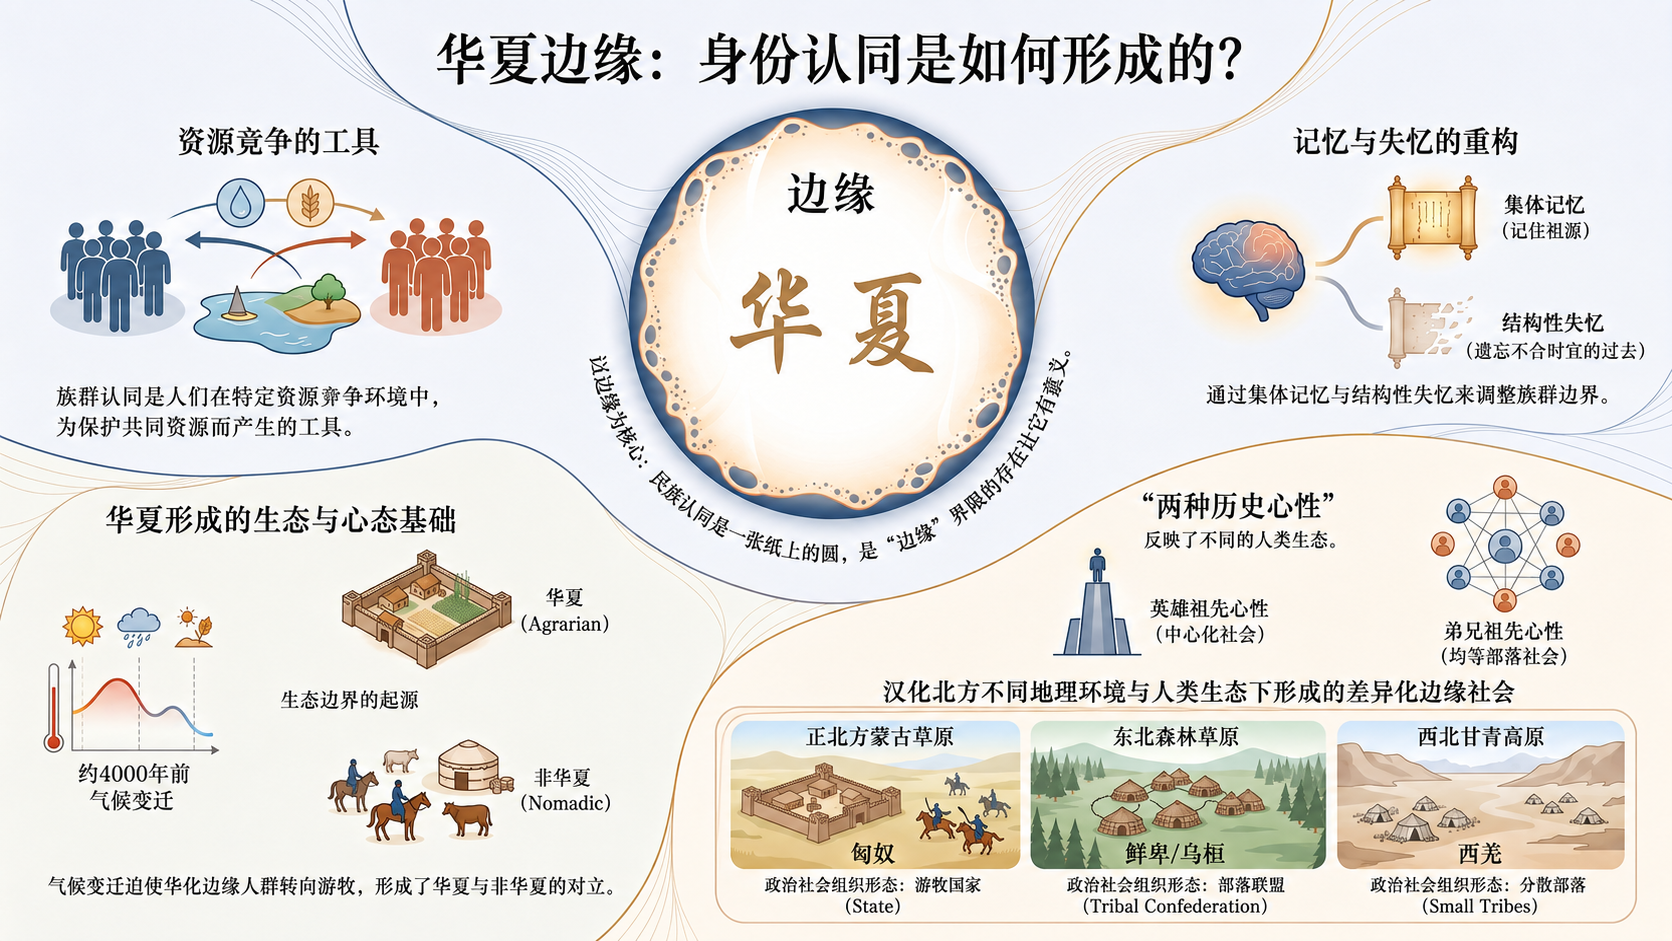
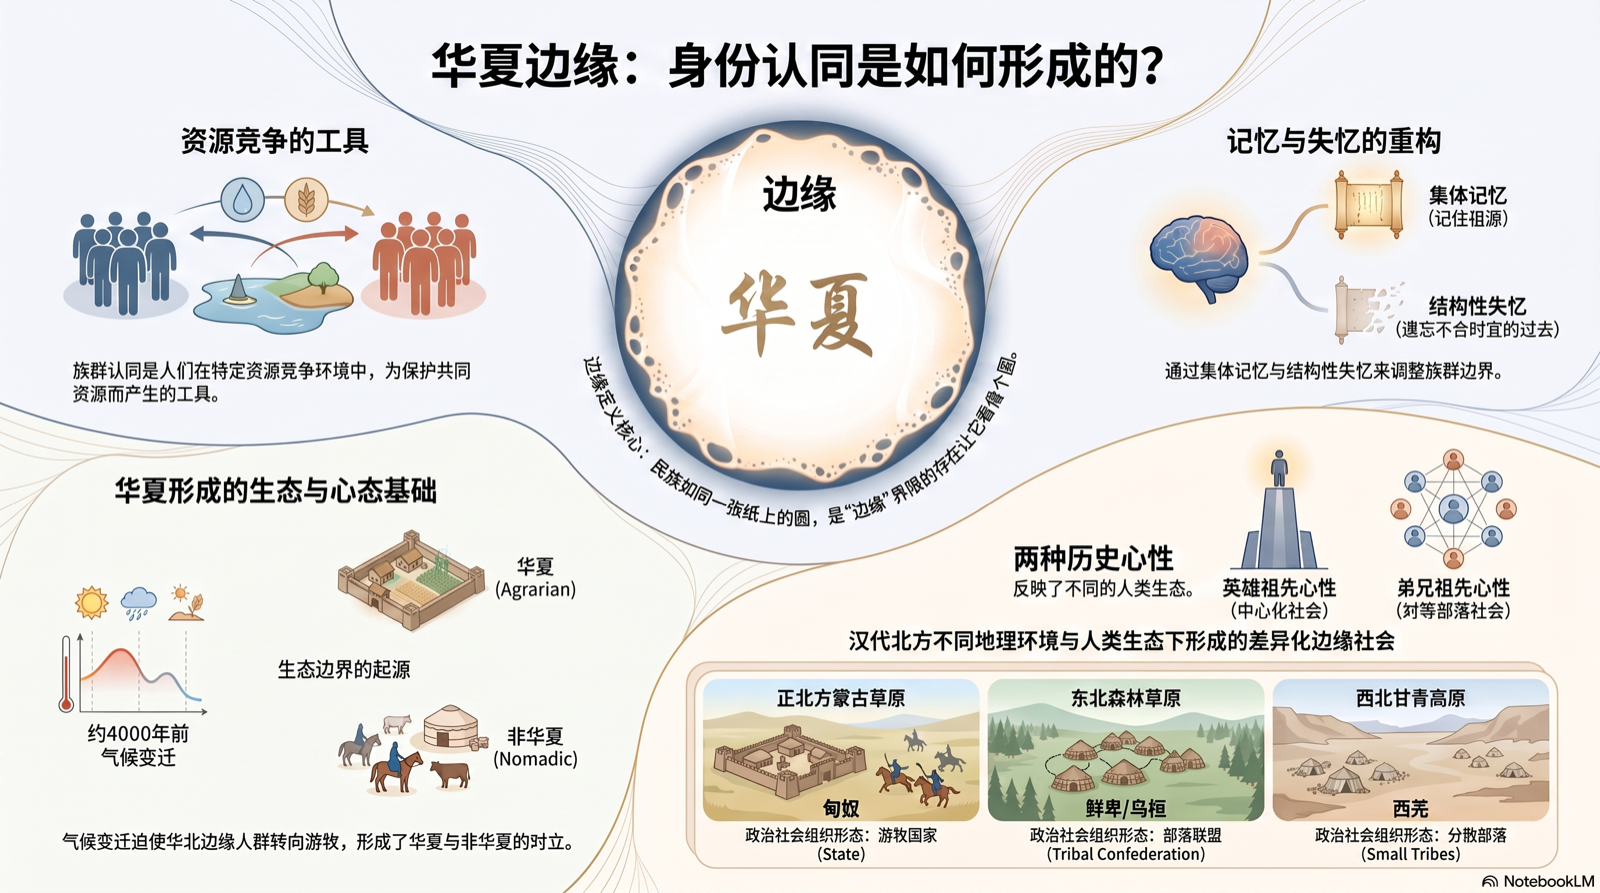
更新素材与模型、首页

diff --git a/index.html b/index.html
@@ -11,6 +11,7 @@
     --dim:#8b8474; --line:rgba(201,164,92,.22); --seal:#a33b2e;
     --vig-in:transparent; --vig-mid:rgba(6,7,13,.5); --vig-out:rgba(6,7,13,.92);
     --glass:rgba(20,22,34,.72); --glass2:rgba(10,12,20,.55);
+    --fserif:"Times New Roman","Songti SC","STSong","Noto Serif SC","SimSun",serif;
   }
   [data-theme="light"]{
     --bg:#ece3d2; --bg2:#e4d9c4; --gold:#8a6c33; --gold-hi:#6b5124; --ink:#2b2419;
@@ -19,7 +20,7 @@
   }
   *{margin:0;padding:0;box-sizing:border-box}
   html{scroll-behavior:smooth;scroll-snap-type:y proximity}
-  body{background:var(--bg);color:var(--ink);font-family:"Songti SC","STSong","Noto Serif SC","SimSun",serif;overflow-x:hidden;transition:background .8s,color .8s}
+  body{background:var(--bg);color:var(--ink);font-family:var(--fserif);overflow-x:hidden;transition:background .8s,color .8s}
   #bg{position:fixed;inset:0;z-index:0;transition:opacity .4s}
   .vignette{position:fixed;inset:0;z-index:1;pointer-events:none;
     background:radial-gradient(ellipse at 50% 42%,var(--vig-in) 30%,var(--vig-mid) 78%,var(--vig-out) 100%)}
@@ -48,14 +49,13 @@
     letter-spacing:.08em;border:1px solid var(--line);color:var(--dim);cursor:pointer;user-select:none;
     background:linear-gradient(160deg,var(--glass),var(--glass2));backdrop-filter:blur(8px);transition:.3s}
   .pill:hover{color:var(--gold-hi);border-color:var(--gold)}
-  .pill kbd{font-family:Georgia,serif;font-size:10px;border:1px solid var(--line);border-radius:4px;padding:1px 5px;color:var(--dim)}
+  .pill kbd{font-family:var(--fserif);font-size:10px;border:1px solid var(--line);border-radius:4px;padding:1px 5px;color:var(--dim)}
   .pill.on{color:var(--gold-hi);border-color:var(--gold);background:rgba(201,164,92,.12)}
 
-  /* 朱印（右上，装饰） */
-  .seal{position:fixed;top:22px;right:22px;z-index:6;width:52px;height:52px;background:var(--seal);border-radius:6px;
-    display:flex;align-items:center;justify-content:center;user-select:none;
-    box-shadow:0 4px 26px rgba(163,59,46,.4),inset 0 0 0 2px rgba(232,223,200,.85),inset 0 0 0 5px var(--seal)}
-  .seal span{color:#f0e6d0;font-size:24px;font-weight:700}
+  /* 标志（右上）：缺口之圆，缘外一点 */
+  .mark{position:fixed;top:22px;right:22px;z-index:6;color:var(--gold-hi);opacity:.92;transition:.4s}
+  .mark:hover{opacity:1;transform:rotate(6deg)}
+  .mark svg{display:block;width:46px;height:46px}
 
   /* 竖排题签（右侧） */
   .side-sign{position:fixed;right:26px;top:50%;transform:translateY(-50%);z-index:5;writing-mode:vertical-rl;
@@ -63,17 +63,22 @@
 
   /* 隐UI */
   body.ui-hidden main, body.ui-hidden .cmdbar, body.ui-hidden .apanel, body.ui-hidden .side-sign{opacity:0;pointer-events:none}
+  .restore{position:fixed;left:22px;bottom:22px;z-index:6;display:none;width:40px;height:40px;border-radius:50%;
+    border:1px solid var(--line);color:var(--dim);align-items:center;justify-content:center;cursor:pointer;
+    background:linear-gradient(160deg,var(--glass),var(--glass2));backdrop-filter:blur(8px);font-size:15px;transition:.3s}
+  .restore:hover{color:var(--gold-hi);border-color:var(--gold)}
+  body.ui-hidden .restore{display:flex}
 
   /* HERO */
   #hero{min-height:100vh;display:flex;flex-direction:column;justify-content:center;align-items:center;
     text-align:center;padding:0 24px;position:relative}
-  .metaline{font-family:Menlo,Consolas,monospace;font-size:11px;letter-spacing:.24em;color:var(--dim);
+  .metaline{font-family:var(--fserif);font-size:11px;letter-spacing:.24em;color:var(--dim);
     border:1px solid var(--line);border-radius:99px;padding:7px 20px;margin-bottom:34px}
   #hero .zh{font-size:clamp(52px,10vw,118px);letter-spacing:.22em;text-indent:.22em;font-weight:700;
     background:linear-gradient(180deg,#f3e6c4 20%,var(--gold) 60%,#8a6c33);-webkit-background-clip:text;background-clip:text;color:transparent;
     text-shadow:0 0 80px rgba(201,164,92,.25)}
   [data-theme="light"] #hero .zh{background:linear-gradient(180deg,#5c4720 10%,var(--gold) 55%,#4a3a1c);-webkit-background-clip:text;background-clip:text;text-shadow:none}
-  #hero .en{margin-top:16px;color:var(--dim);letter-spacing:.34em;font-size:clamp(11px,1.6vw,15px);font-family:Georgia,serif}
+  #hero .en{margin-top:16px;color:var(--dim);letter-spacing:.34em;font-size:clamp(11px,1.6vw,15px);font-family:var(--fserif)}
   #hero .quote{margin-top:44px;max-width:560px;color:var(--ink);opacity:.85;font-size:15.5px;line-height:2.1;
     border-top:1px solid var(--line);border-bottom:1px solid var(--line);padding:22px 30px}
   #hero .quote b{color:var(--gold-hi);font-weight:600}
@@ -81,7 +86,7 @@
   .stats{display:flex;gap:0;margin-top:46px;flex-wrap:wrap;justify-content:center}
   .stat{padding:6px 34px;border-right:1px solid var(--line)}
   .stat:last-child{border-right:none}
-  .stat .v{font-size:30px;color:var(--gold-hi);font-family:Georgia,serif;display:flex;align-items:center;justify-content:center;gap:9px}
+  .stat .v{font-size:30px;color:var(--gold-hi);font-family:var(--fserif);display:flex;align-items:center;justify-content:center;gap:9px}
   [data-theme="light"] .stat .v{color:#6b5124}
   .stat .k{font-size:11px;color:var(--dim);letter-spacing:.28em;margin-top:4px}
   .livedot{width:9px;height:9px;border-radius:50%;background:#4faf6e;box-shadow:0 0 12px rgba(79,175,110,.9);animation:pulse 2s ease-in-out infinite}
@@ -102,7 +107,7 @@
     font-size:12px;color:var(--dim)}
   .apanel .hd{display:flex;justify-content:space-between;align-items:baseline;cursor:pointer}
   .apanel .hd b{color:var(--gold-hi);letter-spacing:.16em;font-weight:600;font-size:12.5px}
-  .apanel .hd i{font-style:normal;font-family:Georgia,serif;font-size:10px;letter-spacing:.2em}
+  .apanel .hd i{font-style:normal;font-family:var(--fserif);font-size:10px;letter-spacing:.2em}
   .apanel .bd{margin-top:12px;display:flex;flex-direction:column;gap:11px}
   .apanel.closed .bd{display:none}
   .apanel label{display:flex;align-items:center;justify-content:space-between;letter-spacing:.14em}
@@ -116,8 +121,8 @@
   .grid{display:grid;grid-template-columns:repeat(auto-fit,minmax(240px,1fr));gap:16px;margin-top:40px}
   .card{padding:26px 24px;transition:.4s;position:relative;overflow:hidden}
   .card:hover{transform:translateY(-6px);border-color:var(--gold)}
-  .card .cn{font-family:Georgia,serif;color:var(--gold);font-size:13px;letter-spacing:.2em}
-  .card .lat{font-family:Georgia,serif;font-style:italic;color:var(--dim);font-size:11.5px;margin-top:2px;letter-spacing:.06em}
+  .card .cn{font-family:var(--fserif);color:var(--gold);font-size:13px;letter-spacing:.2em}
+  .card .lat{font-family:var(--fserif);font-style:italic;color:var(--dim);font-size:11.5px;margin-top:2px;letter-spacing:.06em}
   .card h3{font-size:19px;margin:10px 0 10px;letter-spacing:.06em;color:var(--ink)}
   .card p{font-size:13.5px;color:var(--dim);line-height:1.9}
 
@@ -154,12 +159,12 @@
   @media(max-width:760px){.duo{grid-template-columns:1fr}}
   .panel{padding:34px 30px}
   .panel .name{font-size:34px;letter-spacing:.2em;color:var(--ink)}
-  .panel .nm{font-family:Georgia,serif;color:var(--dim);font-size:13px;letter-spacing:.18em;margin-top:6px}
+  .panel .nm{font-family:var(--fserif);color:var(--dim);font-size:13px;letter-spacing:.18em;margin-top:6px}
   .panel ul{list-style:none;margin-top:22px}
   .panel li{font-size:14px;color:var(--dim);line-height:2.15;padding-left:18px;position:relative}
   .panel li::before{content:"·";position:absolute;left:0;color:var(--gold)}
   .tl .row{display:flex;gap:20px;padding:16px 0;border-bottom:1px dashed rgba(201,164,92,.18)}
-  .tl .yr{font-family:Georgia,serif;font-size:22px;color:var(--gold);min-width:64px}
+  .tl .yr{font-family:var(--fserif);font-size:22px;color:var(--gold);min-width:64px}
   .tl .ds b{display:block;font-size:15px;letter-spacing:.08em;color:var(--ink)}
   .tl .ds span{font-size:12.5px;color:var(--dim)}
 
@@ -170,11 +175,11 @@
   table.links a{color:var(--gold-hi);text-decoration:none;border-bottom:1px dotted var(--line)}
   [data-theme="light"] table.links a{color:#6b5124}
   table.links a:hover{color:var(--gold)}
-  table.links .n{font-family:Georgia,serif;color:var(--dim);font-size:12px;white-space:nowrap}
+  table.links .n{font-family:var(--fserif);color:var(--dim);font-size:12px;white-space:nowrap}
 
   footer{border-top:1px solid var(--line);margin-top:60px;background:linear-gradient(180deg,transparent,rgba(201,164,92,.05))}
   footer .inner{max-width:1060px;margin:0 auto;padding:70px 28px 60px;text-align:center}
-  footer .en{font-family:Georgia,serif;color:var(--gold-hi);font-size:clamp(17px,2.6vw,24px);letter-spacing:.06em;line-height:1.7}
+  footer .en{font-family:var(--fserif);color:var(--gold-hi);font-size:clamp(17px,2.6vw,24px);letter-spacing:.06em;line-height:1.7}
   [data-theme="light"] footer .en{color:#6b5124}
   footer .zh{color:var(--dim);font-size:14px;margin-top:14px;letter-spacing:.12em;line-height:2}
   footer .springer{margin-top:26px;color:var(--dim);font-size:12px;letter-spacing:.24em}
@@ -187,7 +192,7 @@
   #loader .txt{font-size:13px;letter-spacing:.34em;color:var(--dim)}
   #loader .bar{width:180px;height:1px;background:var(--line);position:relative;overflow:hidden}
   #loader .bar i{position:absolute;left:0;top:0;height:100%;background:var(--gold-hi);width:0;transition:width .2s}
-  #loader .pct2{font-family:Georgia,serif;color:var(--gold-hi);font-size:14px;letter-spacing:.3em}
+  #loader .pct2{font-family:var(--fserif);color:var(--gold-hi);font-size:14px;letter-spacing:.3em}
 </style>
 </head>
 <body>
@@ -202,8 +207,9 @@
   <div class="pill" id="btnTheme">◐ 绢本 <kbd>T</kbd></div>
   <div class="pill" id="btnHide">⊘ 隐去 <kbd>H</kbd></div>
 </div>
-<div class="seal"><span>邊</span></div>
+<div class="mark" title="华夏边缘"><svg viewBox="0 0 48 48" fill="none" xmlns="http://www.w3.org/2000/svg"><circle cx="24" cy="24" r="19" stroke="currentColor" stroke-width="1.5" stroke-dasharray="103 17" stroke-linecap="round" transform="rotate(-58 24 24)"/><circle cx="40.5" cy="9.5" r="2.4" fill="currentColor"/></svg></div>
 <div class="side-sign">华夏边缘 · 历史记忆与族群认同</div>
+<div class="restore" id="btnRestore" title="恢复界面 (H)">◎</div>
 
 <div class="apanel" id="apanel">
   <div class="hd" id="apHead"><b>氛围 · ATMOSPHERE</b><i>NO.01</i></div>
@@ -255,14 +261,12 @@
   <!-- 图录 -->
   <section id="plates">
     <div class="reveal"><span class="num">叁 · PLATES</span>
-      <h2>图录 · <em>边缘的四种观看</em></h2>
+      <h2>图录 · <em>边缘的两种观看</em></h2>
       <div class="rule"></div>
-      <p class="lead">四张主题图，把书中的范式之争与认同之变收进一方画面。</p></div>
+      <p class="lead">两张主题图，把书中的范式之争与认同之变收进一方画面。</p></div>
     <div class="plates">
-      <figure class="plate reveal"><img src="assets/plates/plate-1.png" alt="华夏边缘核心概念信息图" loading="lazy"><figcaption><b>图版壹</b>何为华夏边缘 · 核心概念一图流</figcaption></figure>
-      <figure class="plate reveal"><img src="assets/plates/plate-2.png" alt="客观特征论信息图" loading="lazy"><figcaption><b>图版贰</b>为什么"客观特征"定义不了民族</figcaption></figure>
-      <figure class="plate reveal"><img src="assets/plates/plate-3.png" alt="族群理论思维变革" loading="lazy"><figcaption><b>图版叁</b>从实体到边界 · 范式之变</figcaption></figure>
-      <figure class="plate reveal"><img src="assets/plates/plate-4.png" alt="身份认同的形成" loading="lazy"><figcaption><b>图版肆</b>身份认同的形成</figcaption></figure>
+      <figure class="plate reveal"><img src="assets/plates/plate-1.png" alt="华夏边缘：身份认同是如何形成的" loading="lazy"><figcaption><b>图版壹</b>何为华夏边缘 · 身份认同如何形成</figcaption></figure>
+      <figure class="plate reveal"><img src="assets/plates/plate-2.png" alt="族群理论的演进：从客观特征到主观认同" loading="lazy"><figcaption><b>图版贰</b>从客观特征到主观认同 · 范式之变</figcaption></figure>
     </div>
   </section>
 
@@ -337,13 +341,13 @@
       <p class="lead">全网经核验的讲座与解读（2026-11 数据）。</p></div>
     <table class="links reveal">
       <tr><th>平台</th><th>内容</th><th>频道</th><th>热度</th><th>直达</th></tr>
-      <tr><td class="n">Bilibili</td><td>王明珂：三星堆的启示（北大文研院官方）</td><td>北大文研院</td><td class="n">32,860 播放</td><td><a href="https://www.bilibili.com/video/BV1zM4we8ERe" target="_blank" rel="noopener">观看 ↗</a></td></tr>
-      <tr><td class="n">Bilibili</td><td>【一席】王明珂：毒药猫与代罪羊</td><td>一席</td><td class="n">15,009 播放</td><td><a href="https://www.bilibili.com/video/BV11z4y1f7xG" target="_blank" rel="noopener">观看 ↗</a></td></tr>
-      <tr><td class="n">Bilibili</td><td>《北方边缘——秦汉帝国的边疆扩展与边缘反噬》</td><td>i 讲座</td><td class="n">10,665 播放</td><td><a href="https://www.bilibili.com/video/BV1cM411575Z" target="_blank" rel="noopener">观看 ↗</a></td></tr>
-      <tr><td class="n">Bilibili</td><td>王明珂 × 罗新对谈：从边缘看文明</td><td>key-lv</td><td class="n">7,248 播放</td><td><a href="https://www.bilibili.com/video/BV16x4y147DM" target="_blank" rel="noopener">观看 ↗</a></td></tr>
-      <tr><td class="n">Bilibili</td><td>《月明星稀——中原与其边缘的形成》</td><td>i 讲座</td><td class="n">5,433 播放</td><td><a href="https://www.bilibili.com/video/BV1xv4y1E7Sm" target="_blank" rel="noopener">观看 ↗</a></td></tr>
-      <tr><td class="n">YouTube</td><td>第十六届余英时先生历史讲座（王明珂教授）</td><td>中大新亚书院</td><td class="n">官方录像</td><td><a href="https://www.youtube.com/watch?v=GDL2BfBySjk" target="_blank" rel="noopener">观看 ↗</a></td></tr>
-      <tr><td class="n">凤凰卫视</td><td>《开卷八分钟》梁文道整期推介本书（2008）</td><td>凤凰网</td><td class="n">文字实录</td><td><a href="http://phtv.ifeng.com/program/kjbfz/200807/0729_1699_682542.shtml" target="_blank" rel="noopener">阅读 ↗</a></td></tr>
+      <tr><td class="n">Bilibili</td><td>王明珂：三星堆的启示（北大文研院官方）</td><td>北大文研院</td><td class="n">32,860 播放</td><td><a href="https://www.bilibili.com/video/BV1zM4we8ERe" target="_blank" rel="noopener noreferrer" referrerpolicy="no-referrer">观看 ↗</a></td></tr>
+      <tr><td class="n">Bilibili</td><td>【一席】王明珂：毒药猫与代罪羊</td><td>一席</td><td class="n">15,009 播放</td><td><a href="https://www.bilibili.com/video/BV11z4y1f7xG" target="_blank" rel="noopener noreferrer" referrerpolicy="no-referrer">观看 ↗</a></td></tr>
+      <tr><td class="n">Bilibili</td><td>《北方边缘——秦汉帝国的边疆扩展与边缘反噬》</td><td>i 讲座</td><td class="n">10,665 播放</td><td><a href="https://www.bilibili.com/video/BV1cM411575Z" target="_blank" rel="noopener noreferrer" referrerpolicy="no-referrer">观看 ↗</a></td></tr>
+      <tr><td class="n">Bilibili</td><td>王明珂 × 罗新对谈：从边缘看文明</td><td>key-lv</td><td class="n">7,248 播放</td><td><a href="https://www.bilibili.com/video/BV16x4y147DM" target="_blank" rel="noopener noreferrer" referrerpolicy="no-referrer">观看 ↗</a></td></tr>
+      <tr><td class="n">Bilibili</td><td>《月明星稀——中原与其边缘的形成》</td><td>i 讲座</td><td class="n">5,433 播放</td><td><a href="https://www.bilibili.com/video/BV1xv4y1E7Sm" target="_blank" rel="noopener noreferrer" referrerpolicy="no-referrer">观看 ↗</a></td></tr>
+      <tr><td class="n">YouTube</td><td>第十六届余英时先生历史讲座（王明珂教授）</td><td>中大新亚书院</td><td class="n">官方录像</td><td><a href="https://www.youtube.com/watch?v=GDL2BfBySjk" target="_blank" rel="noopener noreferrer" referrerpolicy="no-referrer">观看 ↗</a></td></tr>
+      <tr><td class="n">凤凰卫视</td><td>《开卷八分钟》梁文道整期推介本书（2008）</td><td>凤凰网</td><td class="n">文字实录</td><td><a href="http://phtv.ifeng.com/program/kjbfz/200807/0729_1699_682542.shtml" target="_blank" rel="noopener noreferrer" referrerpolicy="no-referrer">阅读 ↗</a></td></tr>
     </table>
   </section>
 
@@ -360,7 +364,7 @@
       <div class="en">Translating Wang Ming-ke's <i>Huaxia Frontiers</i><br>into English — for the first time.</div>
       <div class="zh">华夏边缘 · 历史记忆与族群认同<br>王明珂 著 · 上海人民出版社 / 世纪文景（中文通行版）</div>
       <div class="springer">SPRINGER · TRANSLATION PROJECT IN PROGRESS</div>
-      <a class="btn ghost repo" href="https://github.com/tanyaqiongcode/huaxia-frontiers-3d" target="_blank" rel="noopener">GitHub 仓库 ↗</a>
+      <a class="btn ghost repo" href="https://github.com/tanyaqiongcode/huaxia-frontiers-3d" target="_blank" rel="noopener noreferrer" referrerpolicy="no-referrer">GitHub 仓库 ↗</a>
     </div>
   </footer>
 </main>
@@ -485,7 +489,7 @@ let simT = 0;
   camera.position.x += (px - camera.position.x)*.03;
   camera.position.y += ((-16 + py*1.4 + scrolly*5.5) - camera.position.y)*.04;
   camera.lookAt(0,0,0.4);
-  canvas.style.opacity = Math.max(.12, 1 - scrolly*.55);
+  canvas.style.opacity = Math.max(0, 1 - scrolly*.9);
   renderer.render(scene, camera);
 })();
 
@@ -510,6 +514,7 @@ function toggleTheme(){ applyTheme(theme==='dark'?'light':'dark'); btnTheme.clas
 function toggleHide(){ document.body.classList.toggle('ui-hidden'); }
 btnSound.onclick = toggleSound; btnPause.onclick = togglePause;
 btnTheme.onclick = toggleTheme; btnHide.onclick = toggleHide;
+document.getElementById('btnRestore').onclick = toggleHide;
 addEventListener('keydown', e=>{
   if(e.target.tagName==='INPUT') return;
   const k = e.key.toLowerCase();
